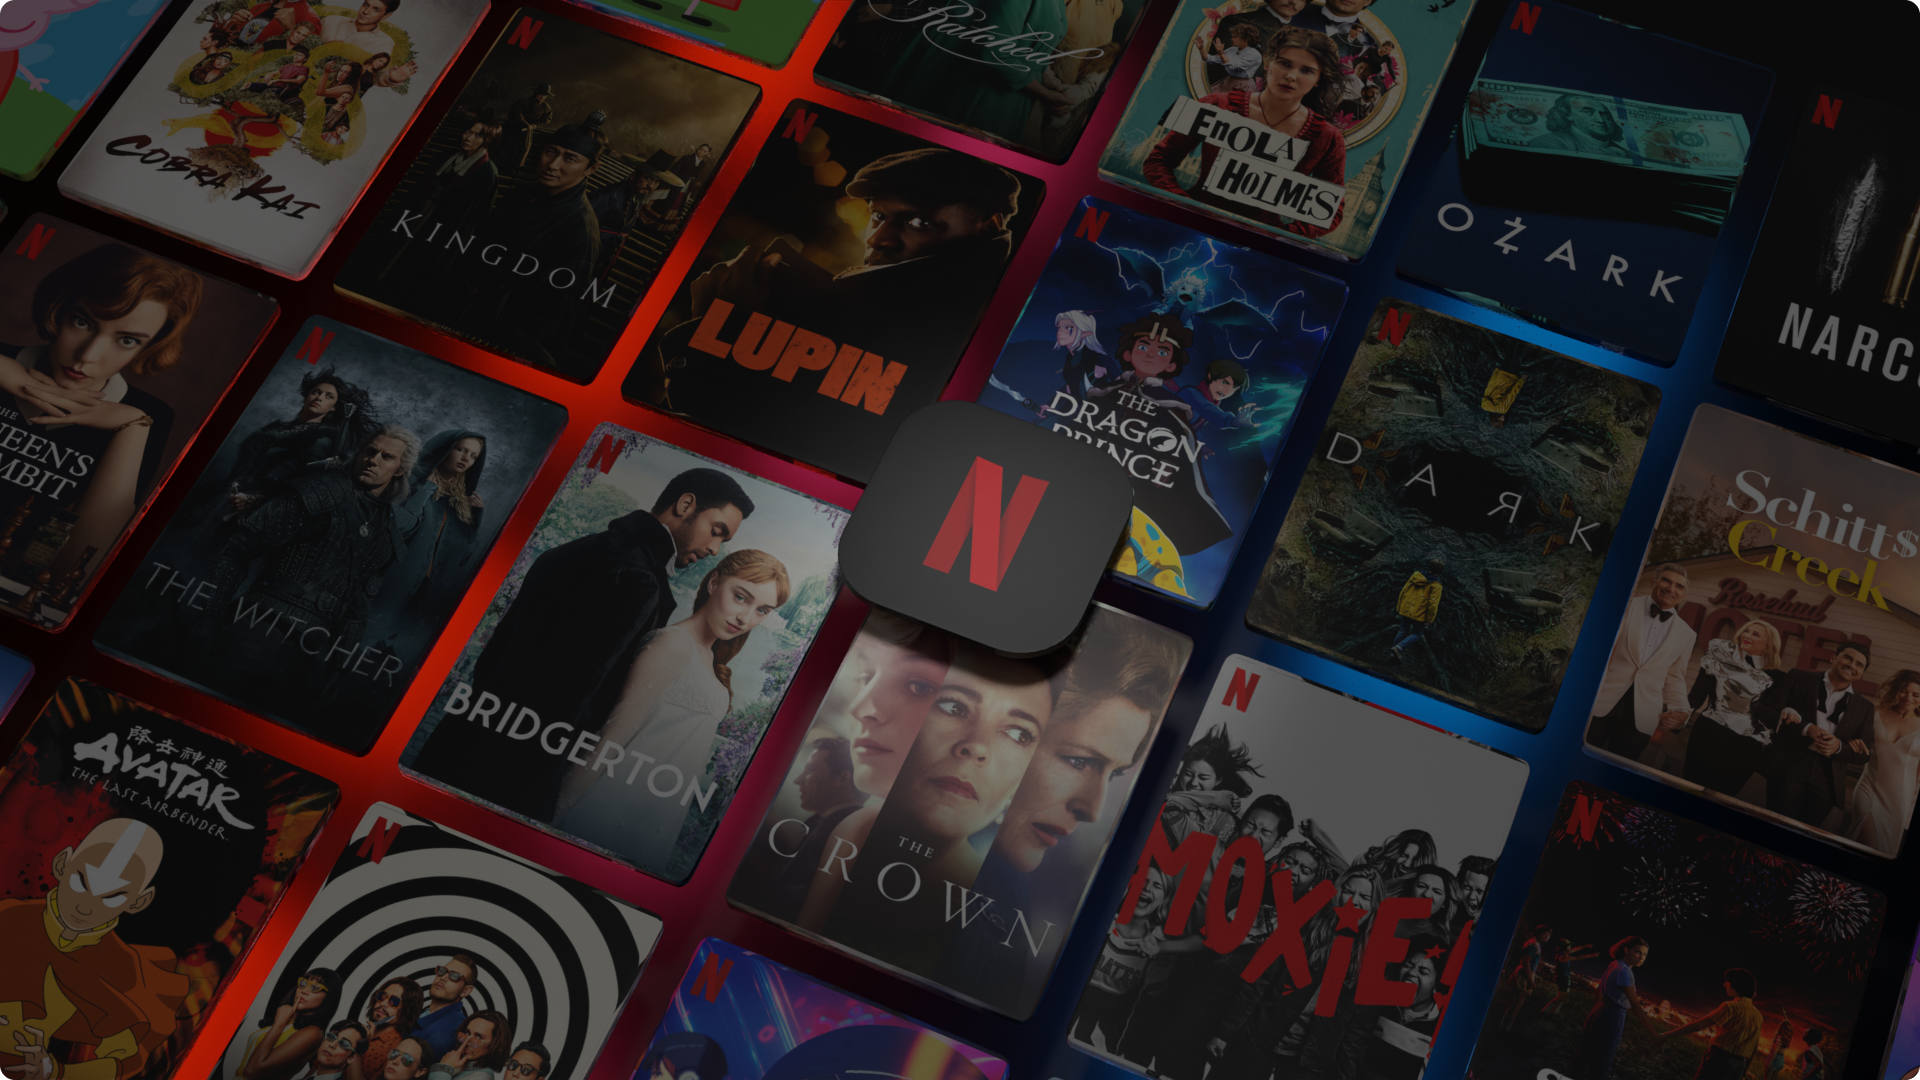
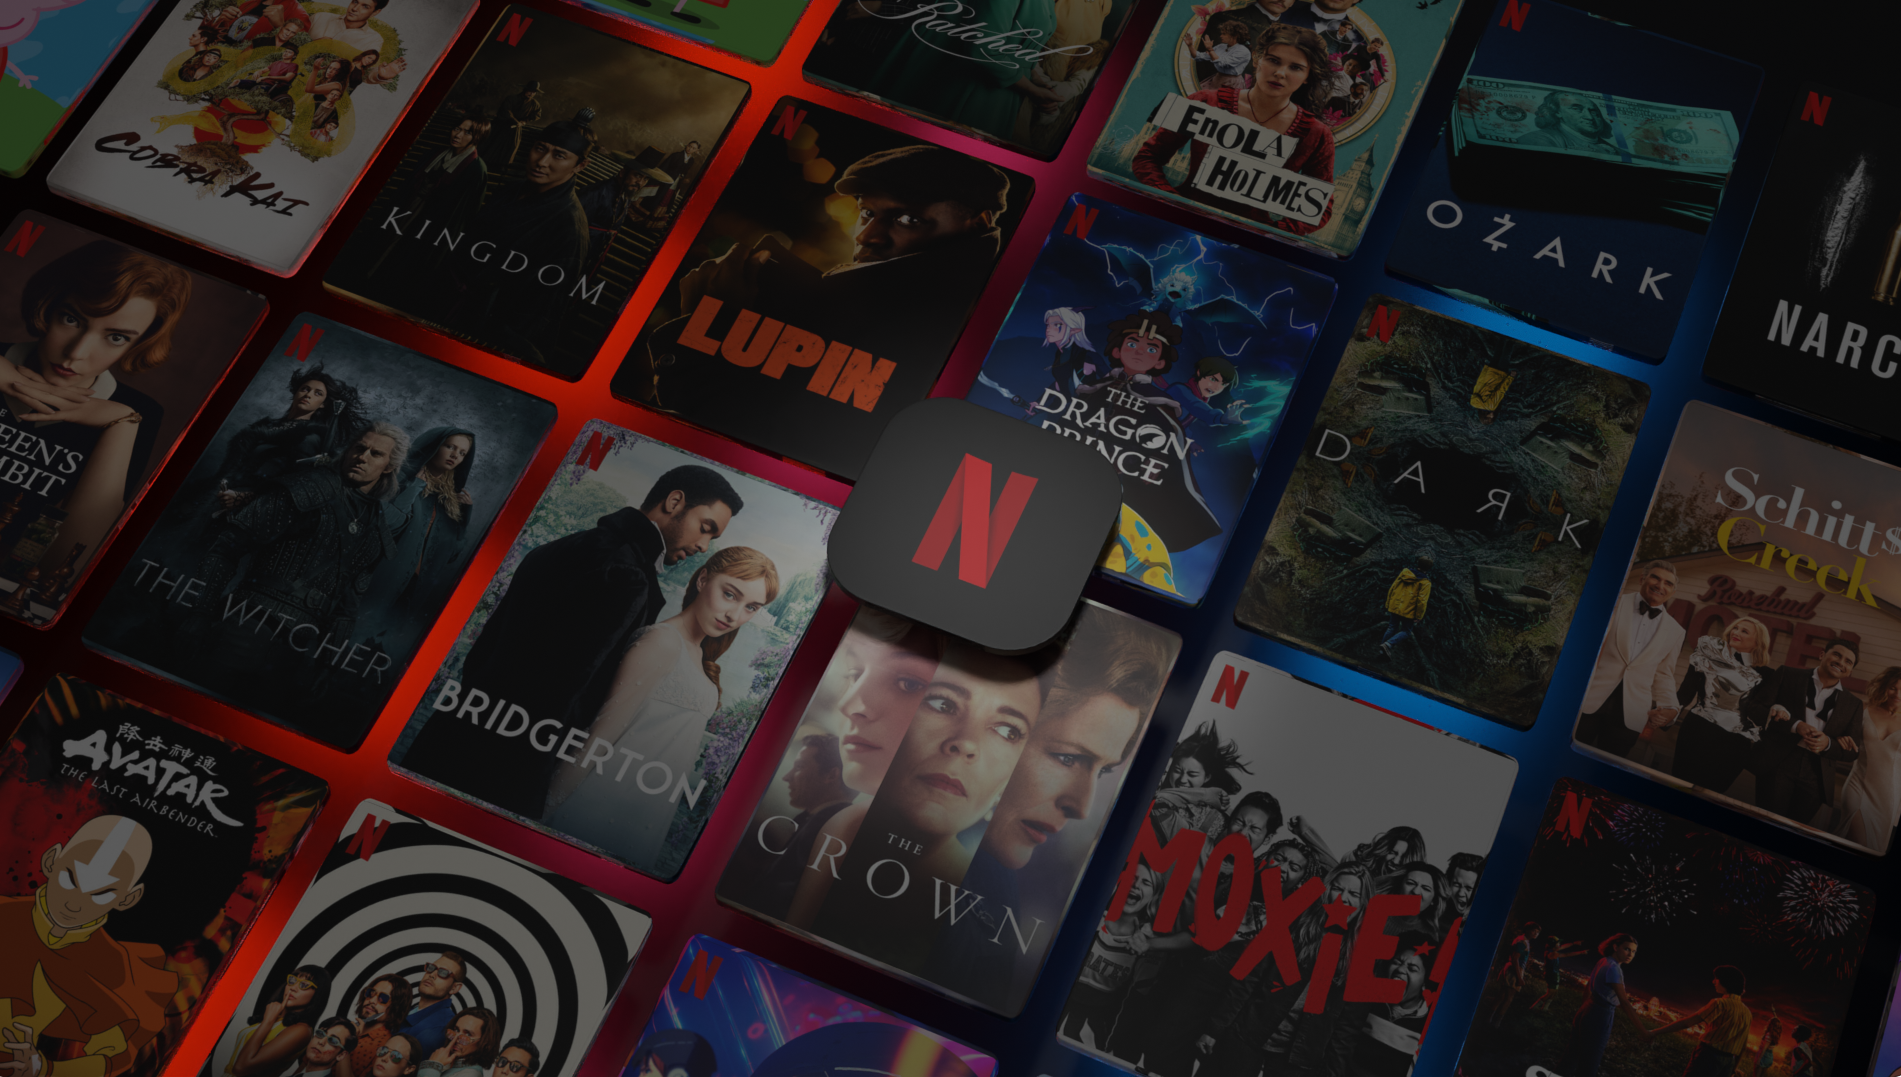
DEV

diff --git a/css/style.css b/css/style.css
@@ -1,4 +1,4 @@
-*{
+ *{
     margin: 0;
     padding: 0;
     box-sizing: border-box;
@@ -7,35 +7,42 @@
 
 body{
     background-image: url(../imgs/bg.png);
-    background-repeat: no-repeat;
+    background-repeat: space;
     background-size: cover;
-    display: flex;
+    
 }
 
-/* main {
+main {
     display: flex;
-    height: 100vh;
-    justify-content: center; 
+    height: 96vh;
+    justify-content: center;
     align-content: space-between;
     gap: 98vh;
     text-align: center;
-    margin-top: 0;
+    margin-top: auto;
 
-} */
+}
 
 footer{
     text-align: center;
     font-style: italic;
     color: rgb(255, 255, 255);
     align-self: flex-end;
+    align-items: center;
 }
+
+
+.movies {
+    align-items:center;
+
+} 
 
 .appmovies {
     align-items:center;
     display:flex;
     flex-direction:column;
     position:relative;
-    margin: 60px 0;
+    margin: auto;
     z-index:9;
 }
 
@@ -52,6 +59,7 @@ footer{
     font-family:'Helvetica Neue',Helvetica,Arial,sans-serif;
     font-size:25px;
     font-weight: 300;
+    text-align:center;
     margin:20px 0 30px;
 }
 
@@ -69,15 +77,6 @@ footer{
     width:35%;
 }
 
-.app-movies {
-    align-items:center;
-    display:flex;
-    flex-direction:column;
-    position:relative;
-    margin: 60px 0;
-    z-index:9;
-}
-
 .formsubmit {
     background-color:#e50914;
     border:0;
@@ -86,4 +85,51 @@ footer{
     font-size:25px;
     padding:15px 30px;
     transition: all .2s ease-in-out;
+}
+
+.app-movies-all {
+    display:grid;
+    grid-gap:30px;
+    grid-template-columns: repeat(auto-fit, 14.46%);
+    position: relative;
+    z-index: 9;
+}
+
+.app-movies-all_card {
+    display: flex;
+    flex-direction: column;
+    position: relative;
+    top: 0;
+    transition: all .2s ease-in-out;
+}
+.app-movies-all_card:hover {
+    top: -5px;
+}
+
+.app-movies-all_figure {
+    height: 230px;
+    box-shadow: 0 0px 9px 3px rgb(255,255,255,0.23);
+}
+
+.app-movies-all_img {
+    width: 100%;
+    height: 100%;
+    object-fit: cover;
+}
+
+.app-movies-all_legend {
+    display: flex;
+    flex-direction: column;
+}
+
+.app-movies-all_year {
+    color:rgba(255,255,255,0.76);
+    font-family:'Helvetica Neue',Helvetica,Arial,sans-serif;
+    font-size:13px;
+    background-color:#e50914;
+    max-width:30px;
+    padding: 4px 10px;
+    line-height: 1;
+    margin: 8px 0;
+    border-radius: 2px;
 }

diff --git a/js/netflix.js b/js/netflix.js
@@ -1,0 +1,64 @@
+
+function handler(event) {
+    event.preventDefault();
+
+    let movie = document.querySelector('.forminput').value;
+
+    //console.log(movie);   // Teste Unitario
+
+    if (movie) {
+        
+        const _url = `https://www.omdbapi.com/?s=${movie}&apikey=658f2b62`;     // Aplicar interpolação
+        // Utilizar API com chave gerada no site.  
+
+        const _option = {
+            method: 'GET',
+            mode: 'cors',
+            redirect: 'follow',
+            cache: 'default'
+        }
+
+
+        fetch(_url, _option)
+            .then(function(response){
+
+                // Tratar Erros
+                if(!response.ok) throw new Erroe('Erro ao executar requisição!');
+
+                // Retornar objeto no formato JSON
+                return response.json();
+            }
+        )
+
+        // receber dados da API (data recebe dados)
+        .then(function(data) {
+            //console.log(data) // teste em relação ao consumo da API
+
+            let newContent = "";
+            for(let i =1; i < data.Search.length; i++) {        // Condição para printar todos os filmes na tela
+                newContent += `<li class="app-movies-all_card">`;
+                newContent += `<figure class= "app-movies-all_figure">`;
+                newContent += `<img class= "app-movies-all_img"> scr="${data.Search[i].Poster}"`;
+                newContent += `</figure`;
+                newContent += `legend class="app-movies-all_legend>`;
+                newContent += `<span class="app-movies-all-year">${data.Search.Year}</span>`;
+                newContent += `h2 class="app-movies-all_title>${data.Search.Title}</h2>`;
+                newContent += `</legend>`;
+                newContent += `</li>`;
+            }
+
+            document.getElementById('movies').innerHTML = newContent;
+
+        })  
+
+ 
+    } else {
+        alert('Campo de Pesquisa Vazio, Por Favor Digite Algo!');
+    }
+}
+
+
+window.onload = () => {
+    const submit = document.querySelector('.formsubmit');
+    submit.addEventListener('click', handler);
+}

diff --git a/index.html b/index.html
@@ -8,7 +8,7 @@
    <link rel="stylesheet" href="./css/style.css">
 </head>
 <body>
-
+   <main>
       <div class="appmovies">
          <h2 class="app-moviestitle">Filmes, séries e muito mais. Sem limites.</h2>
          <h3 class="app-moviessubtitle">Assista onde quiser. Cancele quando quiser.</h3>
@@ -16,12 +16,15 @@
             <input type="text" placeholder="Buscar filme" name="movie" class="forminput" >
             <input type="submit" class="formsubmit" value="Vamos lá">
          </form>
-      </div>
+      </div> 
+   </main>
+
+   <ul class="app-movies-all" id="movies"></ul>
 
    <script src="./js/netflix.js"></script>
 
    <footer>
-      <p>Copyright 2022 © | ❤🚀❤ Vitor de Jesus ❤🚀❤ </p>
+      Copyright 2022 © | ❤🚀❤ Vitor de Jesus ❤🚀❤
    </footer>
 </body>
 </html>
